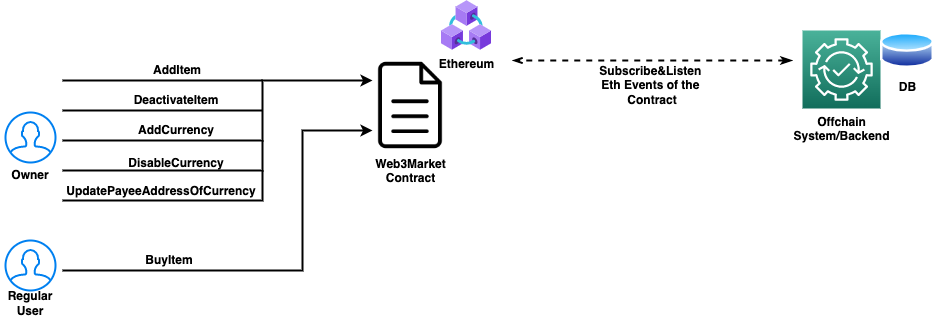
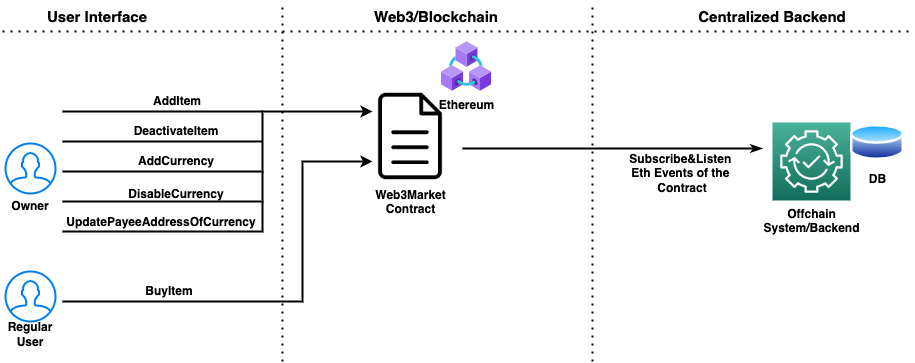
images and readme updated

diff --git a/README.md b/README.md
@@ -1,0 +1,165 @@
+# Web3Market
+
+<!-- ABOUT THE PROJECT -->
+
+## About The Project
+
+This is a sample project of a compact web3 payment system.
+
+_Please note that it has not been audited for production environment usage yet_
+
+The project mainly consists of the Web3Market contract, a basic ERC20 token contract for tests, the test scrpts, the deployment scripts and configurations.
+
+The main contract was inherited as ownable from OpenZeppelin. So there is only one specified role and it's the **Owner**.
+
+The Owner is responsible to add **Items** and **Currencies**, maintain the available stocks, items and currences' availability.
+
+Currency is a struct that keeps related ERC20 contract address which lets users to buy items with specific ERC20 tokens.
+
+The main focus on thi project is **StableCoins** such as USDT and USDC.
+
+Each item is listed in a specific currency with IERC interface. It's possible to add new ERC20 tokens and disable the current ones.
+
+### Flows
+
+Once the contract was deployed, the deployer will be the Owner. Owner can add currency and items. Please note that an initial ERC20 token contract address must be specified at the deployment.
+
+Regular users can call buyItem function with an itemId and quantity.
+
+**Please note that, before buying the user should approve to the contract spents his/her tokens**
+
+The UI component needs to call ERC20 token contract's approve function with the related amount before buying the item. This process cannot done on the contract's end.
+
+![System Overview][web3market_diagram]
+
+This project focuses only the ethereum smart contract. In production, an offchain system can maintain the rest with an outer database. The offchain system can subscribe and listen the contract events and manage the rest.
+
+### Limitations
+
+### Future Works
+
+## Installation
+
+In this section, installation and running instructions are explained.
+
+### Prerequisites
+
+The project is implemented on node.js so please be sure that node and package manager are installed in your environment. To check it, simply run
+
+```sh
+node -v
+```
+
+```
+npm -v
+or
+npm --version
+```
+
+### Dependencies
+
+The project is implemented on
+
+```
+hardhat
+```
+
+For ethereum related operations:
+
+```
+@nomiclabs/hardhat-ethers
+@nomiclabs/hardhat-etherscan
+@nomiclabs/hardhat-waffle
+ethers
+```
+
+For OpenZeppelin:
+
+```
+@openzeppelin/contracts-upgradeable
+@openzeppelin/hardhat-upgrades
+```
+
+For js tests:
+
+```
+chai
+ethereum-waffle
+```
+
+To run the project:
+
+First, it doesn't contain a .env file because of the nature of web3 apps. Please be sure that you've created your .env file with your credentials and never share/post it.
+
+To create .env file
+
+```sh
+
+touch .env
+
+```
+
+The .env file should look like below
+
+```sh
+
+PRIVATE_KEY = <HERE_COMES_YOUR_PRIVATE_KEY>
+
+RINKEBY_URL = <ALCHEMY_RINKEBY_URL>
+
+ETHERSCAN_KEY = <ETHERSCAN_KEY>
+
+```
+
+Ethereum Rinkeby Network is used for test deployments. Feel free to deploy it to other EVM-compatible testnets. To deploy the project to a different network, don't forget to update the hardhat.config.js and deployProxy.js file.
+
+<p  align="right">(<a  href="#top">back to top</a>)</p>
+
+## Deployment Quick Tips
+
+To compile contracts:
+
+```sh
+
+npx hardhat compile
+
+```
+
+To run the tests:
+
+```sh
+
+npx hardhat test
+
+```
+
+To deploy the contract to Rinkeby Testnet:
+
+```sh
+
+npx hardhat run deployments/deployProxy.js --network rinkeby
+
+```
+
+To verify the contract on Rinkeby Testnet:
+
+```sh
+
+hardhat verify — network <networkName> <contractAddress> <ConstructorArguments>
+
+```
+
+in this case
+
+```sh
+
+npx hardhat verify --network rinkeby <CONTRACT_ADDRESS>
+
+```
+
+<p  align="right">(<a  href="#top">back to top</a>)</p>
+
+<!-- MARKDOWN LINKS & IMAGES -->
+<!-- https://www.markdownguide.org/basic-syntax/#reference-style-links -->
+
+[system-overview]: images/Web3Market_diagram.png
